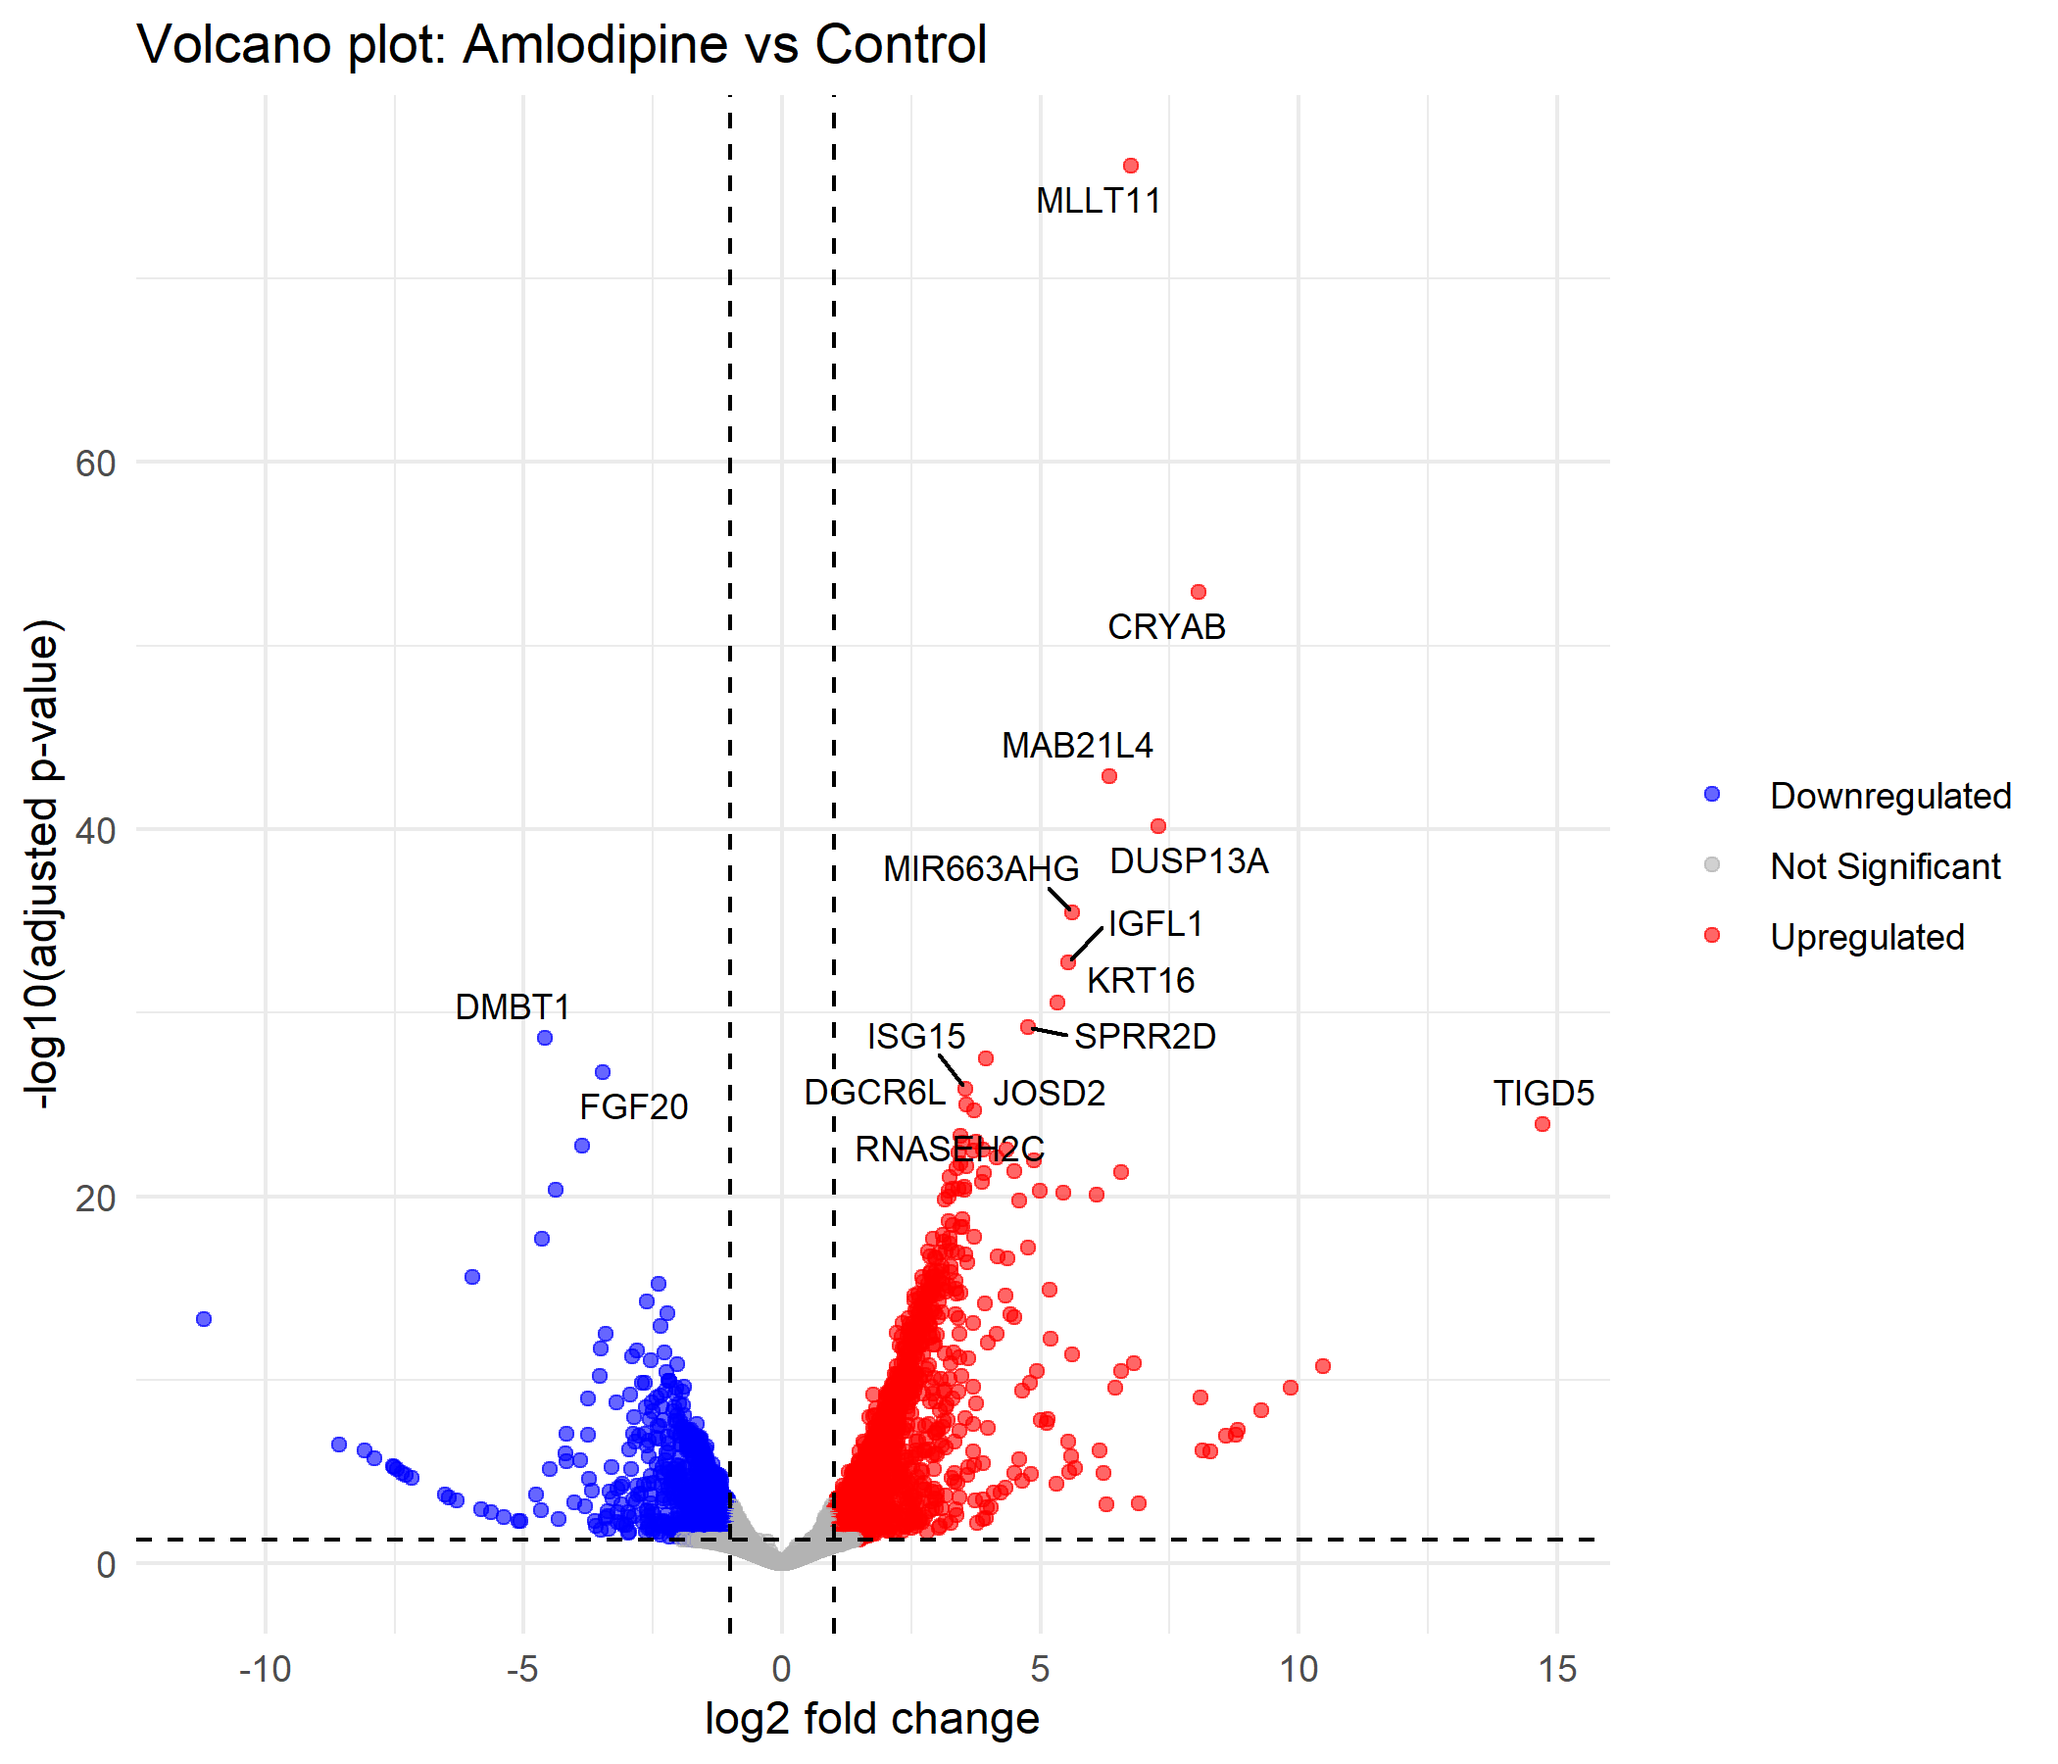
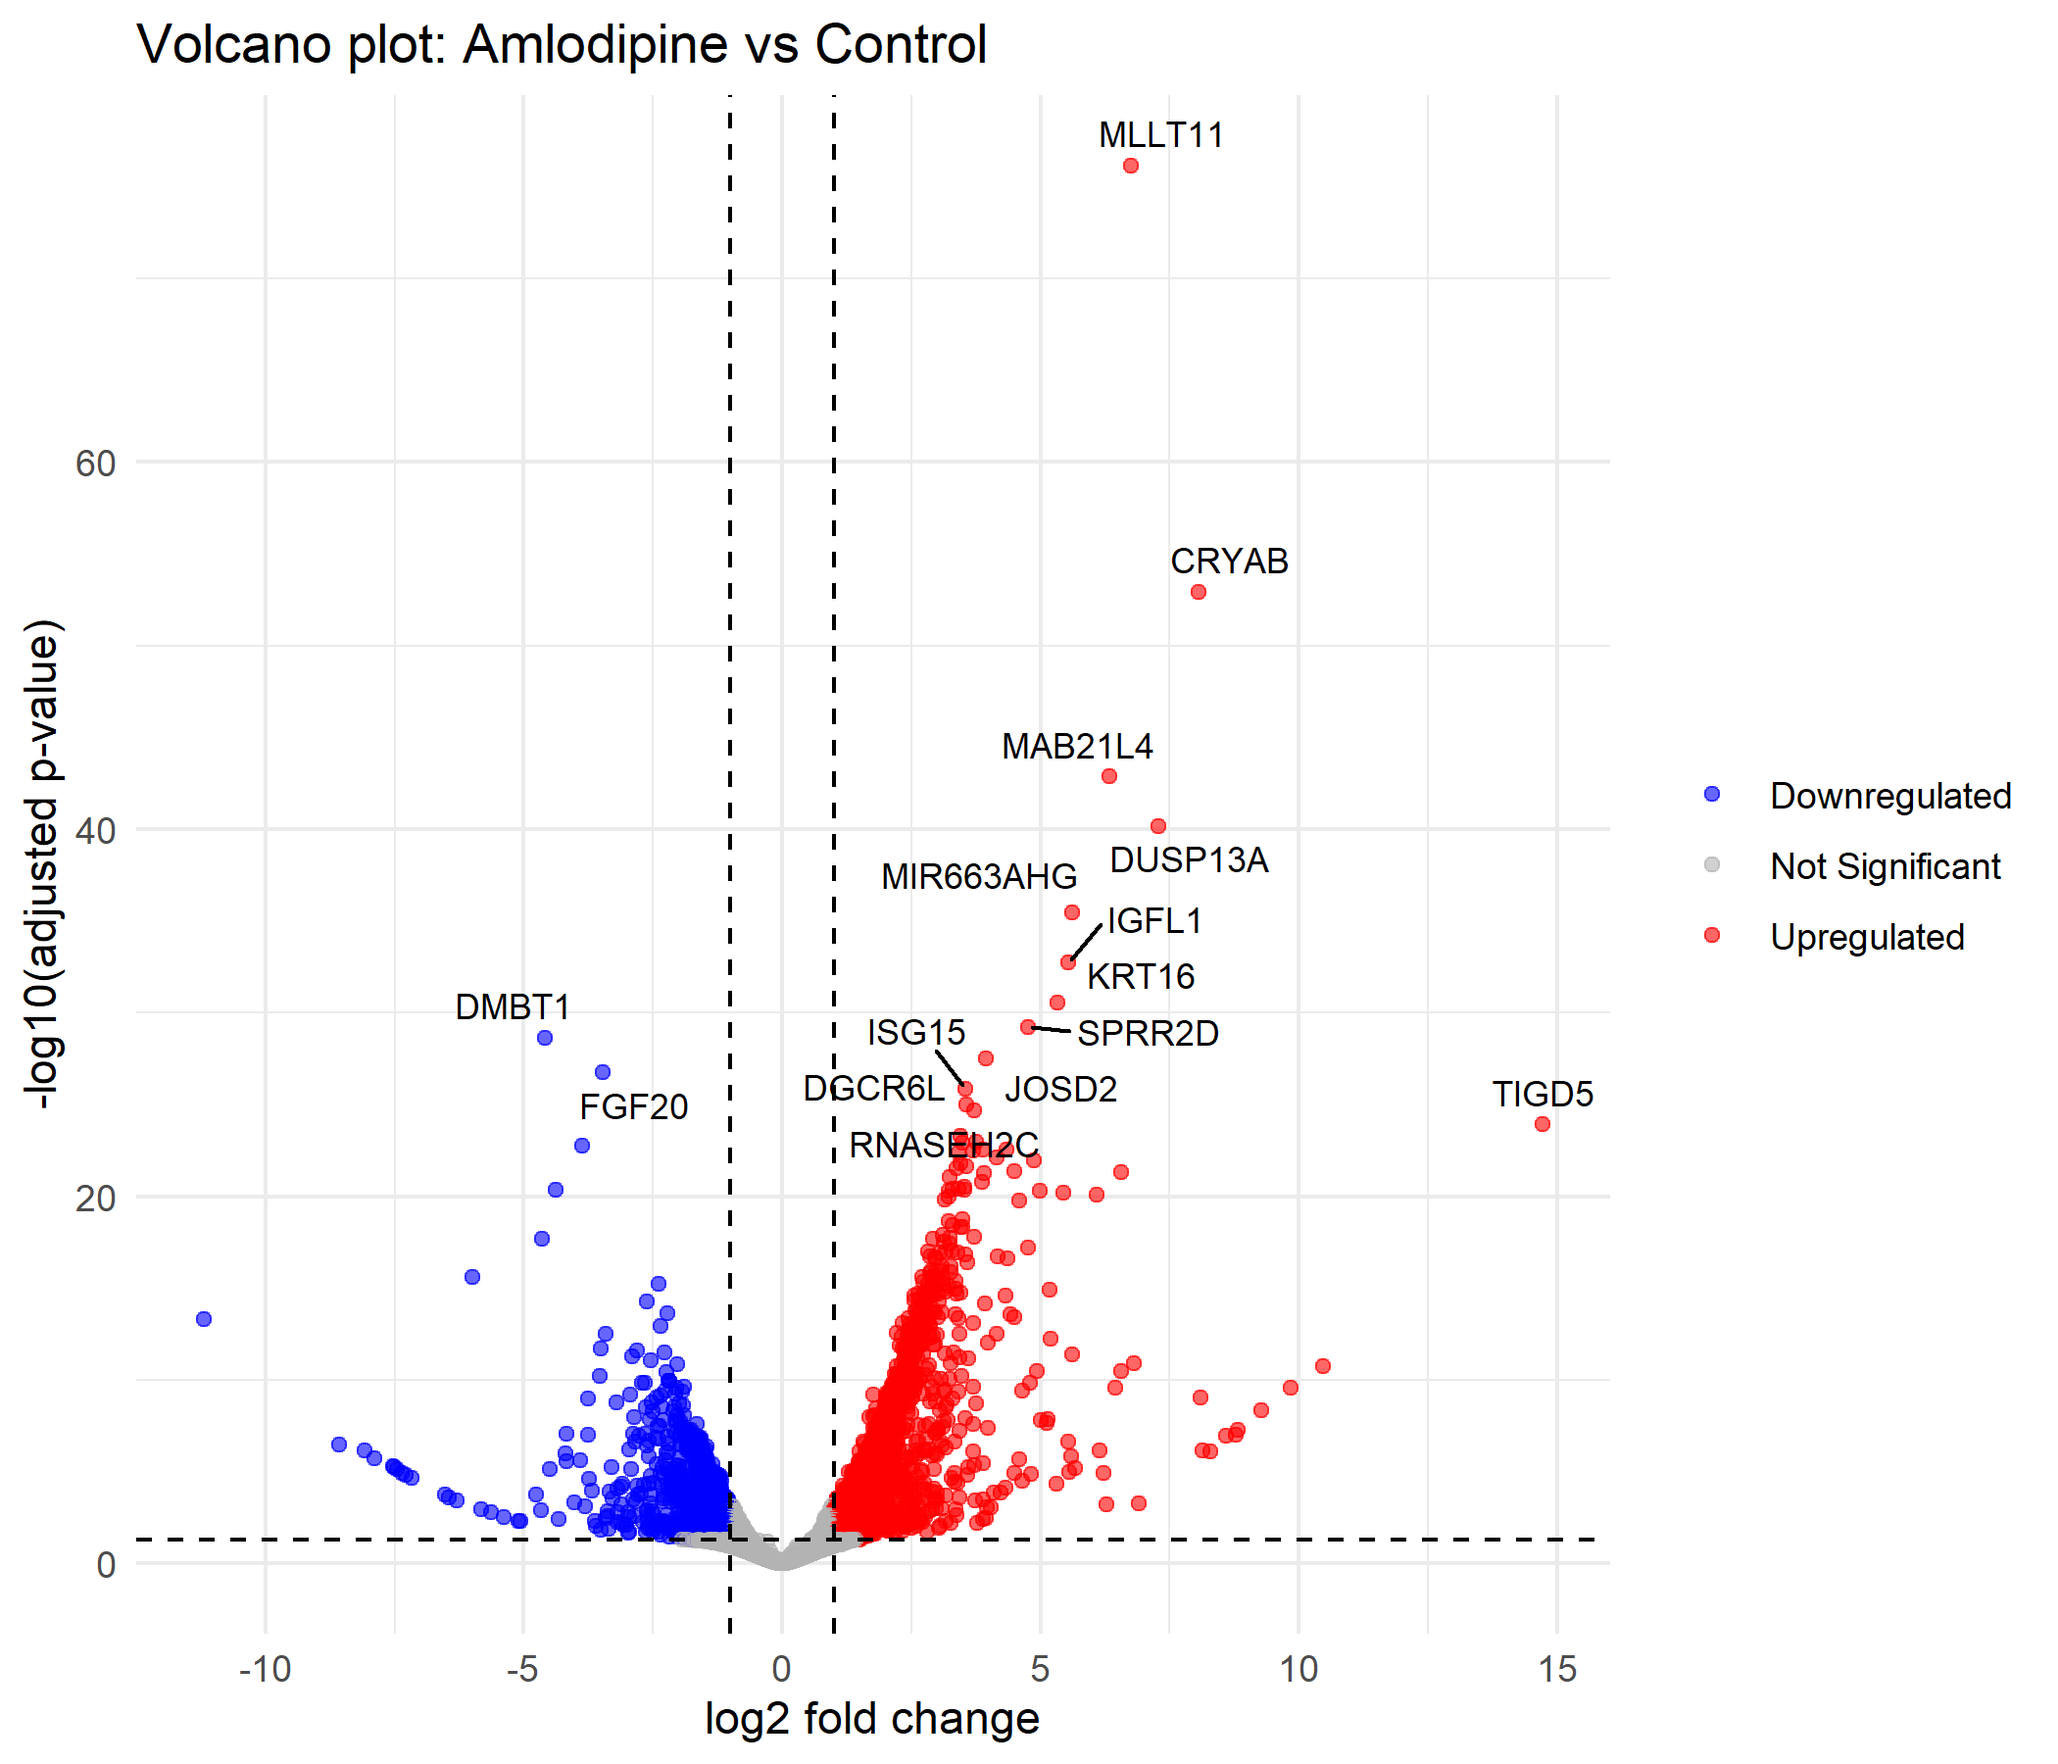
fixed readme and images

diff --git a/README.md b/README.md
@@ -20,7 +20,7 @@ above the low-count filter.
 Treatment is the dominant source of variation (PC1, 83% of variance), and samples cluster
 cleanly by condition.
 
-![PCA](results/figures/01_pca.png)
+<img src="results/figures/01_pca.png" width="600">
 
 In this reanalysis, TKT mRNA is modestly lower after amlodipine treatment (log2FC −0.55,
 nominal p = 0.048, padj = 0.13), and the non-oxidative PPP gene set trends downward with
@@ -30,7 +30,7 @@ reduced non-oxidative PPP activity but do not establish it. The original study's
 findings may rest on protein- or activity-level evidence not captured by RNA-seq.
 At padj < 0.05 and |log2FC| > 1, there are **1977 upregulated** and **1003 downregulated** genes.
 
-![Volcano plot](results/figures/04_volcano.png)
+<img src="results/figures/04_volcano.png" width="600">
 
 Pathway analysis points to p53 activation (CDKN1A, MDM2, GDF15, BAX up) together with
 suppression of G2/M checkpoint and E2F target genes, consistent with cell-cycle arrest.
@@ -41,7 +41,7 @@ For comparison with the original study, the PPP genes are shown in the heatmap b
 Gene-set results for the oxidative and non-oxidative PPP branches are in
 `results/tables/GSEA_PPP_branches.csv`.
 
-![Genes of interest](results/figures/05_genes_of_interest_heatmap.png)
+<img src="results/figures/05_genes_of_interest_heatmap.png" width="600">
 
 ## Workflow
 
